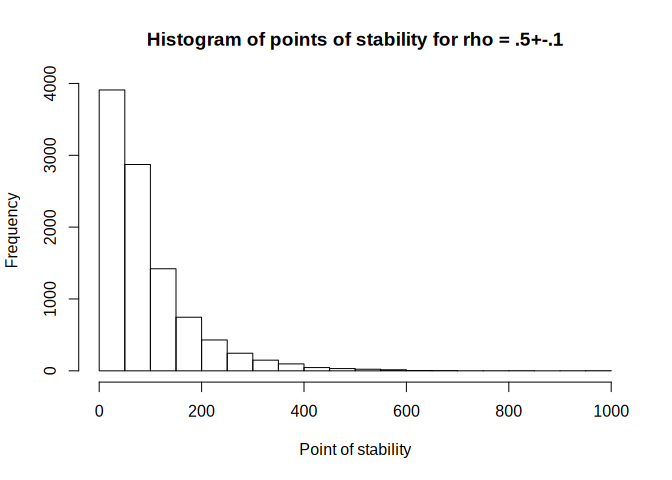
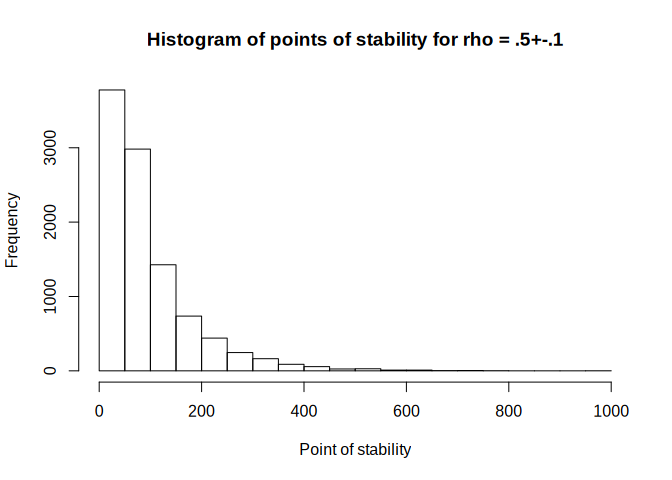
version 0.3.0

diff --git a/inst/doc/fastpos.html b/inst/doc/fastpos.html
@@ -8,7 +8,7 @@
 <meta name="generator" content="pandoc" />
 <meta http-equiv="X-UA-Compatible" content="IE=EDGE" />
 
-<meta name="viewport" content="width=device-width, initial-scale=1">
+<meta name="viewport" content="width=device-width, initial-scale=1" />
 
 <meta name="author" content="Johannes Titz" />
 
@@ -118,9 +118,6 @@ padding-right: 2em;
 font-family: "Open Sans", "Helvetica Neue", Helvetica, Arial, sans-serif;
 font-size: 14px;
 line-height: 1.35;
-}
-#header {
-text-align: center;
 }
 #TOC {
 clear: both;
@@ -289,7 +286,8 @@ code > span.st { color: #d14; }
 code > span.co { color: #888888; font-style: italic; } 
 code > span.ot { color: #007020; } 
 code > span.al { color: #ff0000; font-weight: bold; } 
-code > span.fu { color: #900; font-weight: bold; }  code > span.er { color: #a61717; background-color: #e3d2d2; } 
+code > span.fu { color: #900; font-weight: bold; } 
+code > span.er { color: #a61717; background-color: #e3d2d2; } 
 </style>
 
 
@@ -317,8 +315,8 @@ code > span.fu { color: #900; font-weight: bold; }  code > span.er { color: #a61
 <p>Let us reproduce one example from Schönbrodt and Perugini’s work (this should take only a couple of seconds on a modern CPU):</p>
 <div class="sourceCode" id="cb2"><pre class="sourceCode r"><code class="sourceCode r"><span id="cb2-1"><a href="#cb2-1"></a><span class="kw">find_critical_pos</span>(<span class="dt">rho =</span> <span class="fl">.7</span>, <span class="dt">sample_size_min =</span> <span class="dv">20</span>, <span class="dt">sample_size_max =</span> <span class="dv">1000</span>,</span>
 <span id="cb2-2"><a href="#cb2-2"></a>                  <span class="dt">n_studies =</span> <span class="dv">10000</span>)</span>
-<span id="cb2-3"><a href="#cb2-3"></a><span class="co">#&gt;     rho_pop 80% 90% 95% sample_size_min sample_size_max lower_limit upper_limit</span></span>
-<span id="cb2-4"><a href="#cb2-4"></a><span class="co">#&gt; 1 0.6997798  63  95 130              20            1000         0.6         0.8</span></span>
+<span id="cb2-3"><a href="#cb2-3"></a><span class="co">#&gt;   rho_pop 80% 90% 95% sample_size_min sample_size_max lower_limit upper_limit</span></span>
+<span id="cb2-4"><a href="#cb2-4"></a><span class="co">#&gt; 1     0.7  65  96 127              20            1000         0.6         0.8</span></span>
 <span id="cb2-5"><a href="#cb2-5"></a><span class="co">#&gt;   n_studies n_not_breached precision precision_rel</span></span>
 <span id="cb2-6"><a href="#cb2-6"></a><span class="co">#&gt; 1     10000              0       0.1         FALSE</span></span></code></pre></div>
 <p>The result is very close to Schönbrodt and Perugini’s table (see <a href="https://github.com/nicebread/corEvol" class="uri">https://github.com/nicebread/corEvol</a>).</p>
@@ -328,37 +326,37 @@ code > span.fu { color: #900; font-weight: bold; }  code > span.er { color: #a61
 <span id="cb3-3"><a href="#cb3-3"></a><span class="co">#&gt; Warning in find_critical_pos(rho = 0.7, sample_size_min = 20, sample_size_max = 400, : 3 simulation[s] did not reach the corridor of</span></span>
 <span id="cb3-4"><a href="#cb3-4"></a><span class="co">#&gt;             stability.</span></span>
 <span id="cb3-5"><a href="#cb3-5"></a><span class="co">#&gt; Increase sample_size_max and rerun the simulation.</span></span>
-<span id="cb3-6"><a href="#cb3-6"></a><span class="co">#&gt;     rho_pop 80% 90% 95% sample_size_min sample_size_max lower_limit upper_limit</span></span>
-<span id="cb3-7"><a href="#cb3-7"></a><span class="co">#&gt; 1 0.6998704  65  97 131              20             400         0.6         0.8</span></span>
+<span id="cb3-6"><a href="#cb3-6"></a><span class="co">#&gt;   rho_pop 80% 90% 95% sample_size_min sample_size_max lower_limit upper_limit</span></span>
+<span id="cb3-7"><a href="#cb3-7"></a><span class="co">#&gt; 1     0.7  65  97 133              20             400         0.6         0.8</span></span>
 <span id="cb3-8"><a href="#cb3-8"></a><span class="co">#&gt;   n_studies n_not_breached precision precision_rel</span></span>
 <span id="cb3-9"><a href="#cb3-9"></a><span class="co">#&gt; 1     10000              3       0.1         FALSE</span></span></code></pre></div>
 <p>In this case, do what the message suggests and increase the maximum sample size. Note that larger sample sizes are more resource intensive because the correlations are calculated in the reverse way (from the maximum sample size downwards). Thus, you usually would not like to increase the maximum sample size, unless there are studies that did not reach the corridor of stability.</p>
 <p>If you need different confidence levels, just state it:</p>
 <div class="sourceCode" id="cb4"><pre class="sourceCode r"><code class="sourceCode r"><span id="cb4-1"><a href="#cb4-1"></a><span class="kw">find_critical_pos</span>(<span class="dt">rho =</span> <span class="fl">.7</span>, <span class="dt">sample_size_min =</span> <span class="dv">20</span>, <span class="dt">sample_size_max =</span> <span class="dv">1000</span>,</span>
 <span id="cb4-2"><a href="#cb4-2"></a>                  <span class="dt">n_studies =</span> <span class="dv">10000</span>, <span class="dt">confidence_levels =</span> <span class="kw">c</span>(.<span class="dv">6</span>, <span class="fl">.85</span>))</span>
-<span id="cb4-3"><a href="#cb4-3"></a><span class="co">#&gt;     rho_pop 60% 85% sample_size_min sample_size_max lower_limit upper_limit</span></span>
-<span id="cb4-4"><a href="#cb4-4"></a><span class="co">#&gt; 1 0.7006911  38  78              20            1000         0.6         0.8</span></span>
+<span id="cb4-3"><a href="#cb4-3"></a><span class="co">#&gt;   rho_pop 60% 85% sample_size_min sample_size_max lower_limit upper_limit</span></span>
+<span id="cb4-4"><a href="#cb4-4"></a><span class="co">#&gt; 1     0.7  38  78              20            1000         0.6         0.8</span></span>
 <span id="cb4-5"><a href="#cb4-5"></a><span class="co">#&gt;   n_studies n_not_breached precision precision_rel</span></span>
 <span id="cb4-6"><a href="#cb4-6"></a><span class="co">#&gt; 1     10000              0       0.1         FALSE</span></span></code></pre></div>
 <p>This has no effect on resource consumption because the time consuming part is to simulate the distribution, not calculating quantiles of the distribution.</p>
 <p>If you need a different precision level or even relative precision, specify it:</p>
 <div class="sourceCode" id="cb5"><pre class="sourceCode r"><code class="sourceCode r"><span id="cb5-1"><a href="#cb5-1"></a><span class="kw">find_critical_pos</span>(<span class="dt">rho =</span> <span class="kw">c</span>(.<span class="dv">5</span>, <span class="fl">.7</span>), <span class="dt">sample_size_min =</span> <span class="dv">20</span>, <span class="dt">sample_size_max =</span> <span class="dv">2500</span>,</span>
 <span id="cb5-2"><a href="#cb5-2"></a>                  <span class="dt">n_studies =</span> <span class="dv">10000</span>, <span class="dt">precision =</span> <span class="fl">.10</span>, <span class="dt">precision_rel =</span> T)</span>
-<span id="cb5-3"><a href="#cb5-3"></a><span class="co">#&gt; Warning in find_critical_pos(rho = c(0.5, 0.7), sample_size_min = 20, sample_size_max = 2500, : 9 simulation[s] did not reach the corridor of</span></span>
+<span id="cb5-3"><a href="#cb5-3"></a><span class="co">#&gt; Warning in find_critical_pos(rho = c(0.5, 0.7), sample_size_min = 20, sample_size_max = 2500, : 10 simulation[s] did not reach the corridor of</span></span>
 <span id="cb5-4"><a href="#cb5-4"></a><span class="co">#&gt;             stability.</span></span>
 <span id="cb5-5"><a href="#cb5-5"></a><span class="co">#&gt; Increase sample_size_max and rerun the simulation.</span></span>
-<span id="cb5-6"><a href="#cb5-6"></a><span class="co">#&gt;     rho_pop 80% 90%     95% sample_size_min sample_size_max lower_limit</span></span>
-<span id="cb5-7"><a href="#cb5-7"></a><span class="co">#&gt; 1 0.4990567 596 856 1119.05              20            2500        0.45</span></span>
-<span id="cb5-8"><a href="#cb5-8"></a><span class="co">#&gt; 2 0.6997279 137 199  261.00              20            2500        0.63</span></span>
+<span id="cb5-6"><a href="#cb5-6"></a><span class="co">#&gt;   rho_pop   80%   90%  95% sample_size_min sample_size_max lower_limit</span></span>
+<span id="cb5-7"><a href="#cb5-7"></a><span class="co">#&gt; 1     0.5 590.0 845.2 1122              20            2500        0.45</span></span>
+<span id="cb5-8"><a href="#cb5-8"></a><span class="co">#&gt; 2     0.7 135.2 199.0  264              20            2500        0.63</span></span>
 <span id="cb5-9"><a href="#cb5-9"></a><span class="co">#&gt;   upper_limit n_studies n_not_breached precision precision_rel</span></span>
-<span id="cb5-10"><a href="#cb5-10"></a><span class="co">#&gt; 1        0.55     10000              9       0.1          TRUE</span></span>
+<span id="cb5-10"><a href="#cb5-10"></a><span class="co">#&gt; 1        0.55     10000             10       0.1          TRUE</span></span>
 <span id="cb5-11"><a href="#cb5-11"></a><span class="co">#&gt; 2        0.77     10000              0       0.1          TRUE</span></span></code></pre></div>
 <p>As you can see in the output, the limits were set relatively to the population correlation (+-25% of the population correlation).</p>
 <p>If you want to dig deeper, you can have a look at the functions that <em>find_critical_pos</em> builds upon. <strong>simulate_pos</strong> is the workhorse of the package. It calls a C++ function to calculate correlations sequentially and it does this pretty quickly (but you know that already, right?). A rawish approach would be to create a population with <strong>create_pop</strong> and pass it to <strong>simulate_pos</strong>:</p>
 <div class="sourceCode" id="cb6"><pre class="sourceCode r"><code class="sourceCode r"><span id="cb6-1"><a href="#cb6-1"></a>pop &lt;-<span class="st"> </span><span class="kw">create_pop</span>(<span class="fl">0.5</span>, <span class="dv">1000000</span>)</span>
 <span id="cb6-2"><a href="#cb6-2"></a>pos &lt;-<span class="st"> </span><span class="kw">simulate_pos</span>(<span class="dt">x_pop =</span> pop[,<span class="dv">1</span>],</span>
 <span id="cb6-3"><a href="#cb6-3"></a>                    <span class="dt">y_pop =</span> pop[,<span class="dv">2</span>],</span>
-<span id="cb6-4"><a href="#cb6-4"></a>                    <span class="dt">number_of_studies =</span> <span class="dv">1000</span>,</span>
+<span id="cb6-4"><a href="#cb6-4"></a>                    <span class="dt">n_studies =</span> <span class="dv">1000</span>,</span>
 <span id="cb6-5"><a href="#cb6-5"></a>                    <span class="dt">sample_size_min =</span> <span class="dv">20</span>,</span>
 <span id="cb6-6"><a href="#cb6-6"></a>                    <span class="dt">sample_size_max =</span> <span class="dv">1000</span>,</span>
 <span id="cb6-7"><a href="#cb6-7"></a>                    <span class="dt">replace =</span> T,</span>
@@ -366,33 +364,33 @@ code > span.fu { color: #900; font-weight: bold; }  code > span.er { color: #a61
 <span id="cb6-9"><a href="#cb6-9"></a>                    <span class="dt">upper_limit =</span> <span class="fl">0.6</span>)</span>
 <span id="cb6-10"><a href="#cb6-10"></a><span class="kw">hist</span>(pos, <span class="dt">xlim =</span> <span class="kw">c</span>(<span class="dv">0</span>, <span class="dv">1000</span>), <span class="dt">xlab =</span> <span class="kw">c</span>(<span class="st">&quot;Point of stability&quot;</span>),</span>
 <span id="cb6-11"><a href="#cb6-11"></a>     <span class="dt">main =</span> <span class="st">&quot;Histogram of points of stability for rho = .5+-.1&quot;</span>)</span></code></pre></div>
[2 lines of base64/hex data omitted]
 <div class="sourceCode" id="cb7"><pre class="sourceCode r"><code class="sourceCode r"><span id="cb7-1"><a href="#cb7-1"></a><span class="kw">quantile</span>(pos, <span class="kw">c</span>(.<span class="dv">8</span>, <span class="fl">.9</span>, <span class="fl">.95</span>), <span class="dt">na.rm =</span> T)</span>
-<span id="cb7-2"><a href="#cb7-2"></a><span class="co">#&gt;   80%   90%   95% </span></span>
-<span id="cb7-3"><a href="#cb7-3"></a><span class="co">#&gt; 141.0 214.1 270.0</span></span></code></pre></div>
+<span id="cb7-2"><a href="#cb7-2"></a><span class="co">#&gt;    80%    90%    95% </span></span>
+<span id="cb7-3"><a href="#cb7-3"></a><span class="co">#&gt; 142.20 199.10 290.05</span></span></code></pre></div>
 <p>Note that no warning message appears if the corridor is not reached, but instead an NA value is returned. Pay careful attention if you work with this function, and adjust the maximum sample size as needed.</p>
 <p><strong>create_pop</strong> creates the population matrix by using <strong>mvrnorm</strong>. This is a much simpler way than Schönbrodt and Perugini’s approach, but the results do not seem to differ. If you are interested in how population parameters (e.g. skewness) affect the point of stability, you should instead refer to the population generating functions in Schönbrodt and Perugini’s work.</p>
 <p>As you can see, there is not really much to the sequential definition of stability, except for calculating billions of correlations. This is done quite fast with the help of <strong>Rcpp</strong>.</p>
 <p>Let us reproduce Schönbrodt and Perugini’s quite famous and oft-cited table of the critical points of stability for a precision of 0.1. We set the maximum sample size a bit higher, so we avoid studies where the corridor is never reached. We reduce the number of studies to 10k so that it runs fairly quickly.</p>
 <div class="sourceCode" id="cb8"><pre class="sourceCode r"><code class="sourceCode r"><span id="cb8-1"><a href="#cb8-1"></a><span class="kw">find_critical_pos</span>(<span class="dt">rho =</span> <span class="kw">seq</span>(.<span class="dv">1</span>, <span class="fl">.7</span>, <span class="fl">.1</span>), <span class="dt">sample_size_max =</span> <span class="dv">1000</span>,</span>
 <span id="cb8-2"><a href="#cb8-2"></a>                  <span class="dt">n_studies =</span> <span class="dv">10000</span>)</span>
-<span id="cb8-3"><a href="#cb8-3"></a><span class="co">#&gt; Warning in find_critical_pos(rho = seq(0.1, 0.7, 0.1), sample_size_max = 1000, : 30 simulation[s] did not reach the corridor of</span></span>
+<span id="cb8-3"><a href="#cb8-3"></a><span class="co">#&gt; Warning in find_critical_pos(rho = seq(0.1, 0.7, 0.1), sample_size_max = 1000, : 22 simulation[s] did not reach the corridor of</span></span>
 <span id="cb8-4"><a href="#cb8-4"></a><span class="co">#&gt;             stability.</span></span>
 <span id="cb8-5"><a href="#cb8-5"></a><span class="co">#&gt; Increase sample_size_max and rerun the simulation.</span></span>
-<span id="cb8-6"><a href="#cb8-6"></a><span class="co">#&gt;     rho_pop   80% 90%    95% sample_size_min sample_size_max lower_limit</span></span>
-<span id="cb8-7"><a href="#cb8-7"></a><span class="co">#&gt; 1 0.1005987 253.0 365 479.00              20            1000         0.0</span></span>
-<span id="cb8-8"><a href="#cb8-8"></a><span class="co">#&gt; 2 0.1998043 234.0 335 433.00              20            1000         0.1</span></span>
-<span id="cb8-9"><a href="#cb8-9"></a><span class="co">#&gt; 3 0.3004318 214.2 304 393.00              20            1000         0.2</span></span>
-<span id="cb8-10"><a href="#cb8-10"></a><span class="co">#&gt; 4 0.4004198 184.0 267 354.05              20            1000         0.3</span></span>
-<span id="cb8-11"><a href="#cb8-11"></a><span class="co">#&gt; 5 0.4986327 145.0 208 276.00              20            1000         0.4</span></span>
-<span id="cb8-12"><a href="#cb8-12"></a><span class="co">#&gt; 6 0.5991916 104.0 150 200.00              20            1000         0.5</span></span>
-<span id="cb8-13"><a href="#cb8-13"></a><span class="co">#&gt; 7 0.6999457  65.0  96 128.05              20            1000         0.6</span></span>
+<span id="cb8-6"><a href="#cb8-6"></a><span class="co">#&gt;   rho_pop   80%   90%    95% sample_size_min sample_size_max lower_limit</span></span>
+<span id="cb8-7"><a href="#cb8-7"></a><span class="co">#&gt; 1     0.1 254.0 366.1 489.00              20            1000         0.0</span></span>
+<span id="cb8-8"><a href="#cb8-8"></a><span class="co">#&gt; 2     0.2 235.2 340.0 443.05              20            1000         0.1</span></span>
+<span id="cb8-9"><a href="#cb8-9"></a><span class="co">#&gt; 3     0.3 211.0 303.1 396.00              20            1000         0.2</span></span>
+<span id="cb8-10"><a href="#cb8-10"></a><span class="co">#&gt; 4     0.4 179.0 260.0 350.00              20            1000         0.3</span></span>
+<span id="cb8-11"><a href="#cb8-11"></a><span class="co">#&gt; 5     0.5 144.2 211.0 276.05              20            1000         0.4</span></span>
+<span id="cb8-12"><a href="#cb8-12"></a><span class="co">#&gt; 6     0.6 102.0 149.0 198.05              20            1000         0.5</span></span>
+<span id="cb8-13"><a href="#cb8-13"></a><span class="co">#&gt; 7     0.7  66.0  97.0 128.05              20            1000         0.6</span></span>
 <span id="cb8-14"><a href="#cb8-14"></a><span class="co">#&gt;   upper_limit n_studies n_not_breached precision precision_rel</span></span>
-<span id="cb8-15"><a href="#cb8-15"></a><span class="co">#&gt; 1         0.2     10000             11       0.1         FALSE</span></span>
-<span id="cb8-16"><a href="#cb8-16"></a><span class="co">#&gt; 2         0.3     10000             10       0.1         FALSE</span></span>
-<span id="cb8-17"><a href="#cb8-17"></a><span class="co">#&gt; 3         0.4     10000              6       0.1         FALSE</span></span>
-<span id="cb8-18"><a href="#cb8-18"></a><span class="co">#&gt; 4         0.5     10000              2       0.1         FALSE</span></span>
-<span id="cb8-19"><a href="#cb8-19"></a><span class="co">#&gt; 5         0.6     10000              1       0.1         FALSE</span></span>
+<span id="cb8-15"><a href="#cb8-15"></a><span class="co">#&gt; 1         0.2     10000              9       0.1         FALSE</span></span>
+<span id="cb8-16"><a href="#cb8-16"></a><span class="co">#&gt; 2         0.3     10000              7       0.1         FALSE</span></span>
+<span id="cb8-17"><a href="#cb8-17"></a><span class="co">#&gt; 3         0.4     10000              1       0.1         FALSE</span></span>
+<span id="cb8-18"><a href="#cb8-18"></a><span class="co">#&gt; 4         0.5     10000              5       0.1         FALSE</span></span>
+<span id="cb8-19"><a href="#cb8-19"></a><span class="co">#&gt; 5         0.6     10000              0       0.1         FALSE</span></span>
 <span id="cb8-20"><a href="#cb8-20"></a><span class="co">#&gt; 6         0.7     10000              0       0.1         FALSE</span></span>
 <span id="cb8-21"><a href="#cb8-21"></a><span class="co">#&gt; 7         0.8     10000              0       0.1         FALSE</span></span></code></pre></div>
 <p>You can obviously parallelize the process, which will be especially useful if you want to run many simulations. For instance, if you increase the number of studies to 100k (as in the original article), it will take less than a minute on a modern CPU with several cores. On my i7-2640 with 4 cores, it takes about 30 s. Overall, this speedup is substantial compared to the original implementation. A rough benchmark can be found here: <a href="https://github.com/johannes-titz/fastpos" class="uri">https://github.com/johannes-titz/fastpos</a> which results in a speedup of about 500 for a typical scenario.</p>

diff --git a/src/RcppExports.cpp b/src/RcppExports.cpp
@@ -25,20 +25,20 @@ BEGIN_RCPP
 END_RCPP
 }
 // simulate_pos
-IntegerVector simulate_pos(NumericVector x_pop, NumericVector y_pop, int number_of_studies, int sample_size_min, int sample_size_max, bool replace, float lower_limit, float upper_limit);
-RcppExport SEXP _fastpos_simulate_pos(SEXP x_popSEXP, SEXP y_popSEXP, SEXP number_of_studiesSEXP, SEXP sample_size_minSEXP, SEXP sample_size_maxSEXP, SEXP replaceSEXP, SEXP lower_limitSEXP, SEXP upper_limitSEXP) {
+IntegerVector simulate_pos(NumericVector x_pop, NumericVector y_pop, int n_studies, int sample_size_min, int sample_size_max, bool replace, float lower_limit, float upper_limit);
+RcppExport SEXP _fastpos_simulate_pos(SEXP x_popSEXP, SEXP y_popSEXP, SEXP n_studiesSEXP, SEXP sample_size_minSEXP, SEXP sample_size_maxSEXP, SEXP replaceSEXP, SEXP lower_limitSEXP, SEXP upper_limitSEXP) {
 BEGIN_RCPP
     Rcpp::RObject rcpp_result_gen;
     Rcpp::RNGScope rcpp_rngScope_gen;
     Rcpp::traits::input_parameter< NumericVector >::type x_pop(x_popSEXP);
     Rcpp::traits::input_parameter< NumericVector >::type y_pop(y_popSEXP);
-    Rcpp::traits::input_parameter< int >::type number_of_studies(number_of_studiesSEXP);
+    Rcpp::traits::input_parameter< int >::type n_studies(n_studiesSEXP);
     Rcpp::traits::input_parameter< int >::type sample_size_min(sample_size_minSEXP);
     Rcpp::traits::input_parameter< int >::type sample_size_max(sample_size_maxSEXP);
     Rcpp::traits::input_parameter< bool >::type replace(replaceSEXP);
     Rcpp::traits::input_parameter< float >::type lower_limit(lower_limitSEXP);
     Rcpp::traits::input_parameter< float >::type upper_limit(upper_limitSEXP);
-    rcpp_result_gen = Rcpp::wrap(simulate_pos(x_pop, y_pop, number_of_studies, sample_size_min, sample_size_max, replace, lower_limit, upper_limit));
+    rcpp_result_gen = Rcpp::wrap(simulate_pos(x_pop, y_pop, n_studies, sample_size_min, sample_size_max, replace, lower_limit, upper_limit));
     return rcpp_result_gen;
 END_RCPP
 }

diff --git a/src/rcpparma.cpp b/src/rcpparma.cpp
@@ -108,8 +108,9 @@ int simulate_one_pos(NumericVector x_pop,
 //' @param upper_limit Upper limit of corridor of stability.
 //' @param replace Whether drawing samples is with replacement or not.
 //' @param sample_size_max How many participants to draw at maximum.
-//' @param number_of_studies How many studies to conduct.
-//' @param sample_size_min Minimum sample size to start in corridor of stability.
+//' @param n_studies How many studies to conduct.
+//' @param sample_size_min Minimum sample size to start in corridor of
+//'   stability.
 //' @return Vector of sample sizes at which corridor of stability was reached.
 //' @examples
 //' pop <- fastpos::create_pop(0.5, 1000000)
@@ -118,22 +119,24 @@ int simulate_one_pos(NumericVector x_pop,
 // [[Rcpp::export]]
 IntegerVector simulate_pos(NumericVector x_pop,
                            NumericVector y_pop,
-                           int number_of_studies,
+                           int n_studies,
                            int sample_size_min,
                            int sample_size_max,
                            bool replace,
                            float lower_limit,
                            float upper_limit){
-  IntegerVector ret(number_of_studies);
+  IntegerVector ret(n_studies);
   int npop = x_pop.size();
   NumericVector index_pop(npop);
   for (int i = 0; i < npop; i++){
     index_pop[i] = i;
   }
-  Progress p(number_of_studies, true);
-  for (int k = 0; k < number_of_studies; k++) {
-    if (k % 10000 == 0) {
-      checkUserInterrupt();
+  Progress p(n_studies, true);
+  for (int k = 0; k < n_studies; k++){
+    if (k % 5000 == 0){
+      if (Progress::check_abort()){
+        return(IntegerVector::create(-1));
+      }
     }
     p.increment();
     ret[k] = simulate_one_pos(x_pop, y_pop, index_pop, sample_size_min,

diff --git a/README.md b/README.md
@@ -40,7 +40,7 @@ to the problem and a simulation approach is computationally expensive.
 The package *fastpos* overcomes this limitation by speeding up the
 calculation of correlations. For typical parameters, the theoretical
 speedup should be at least around 250. An empirical benchmark for a
-typical scenario even shows a speedup of about 500, paving the way for a
+typical scenario even shows a speedup of about 400, paving the way for a
 wider usage of the *stability* approach.
 
 ## Installation
@@ -84,17 +84,17 @@ reduce the number of studies to 10k so that it runs fairly quickly.
 ``` r
 find_critical_pos(rho = seq(.1, .7, .1), sample_size_max = 1000,
                   n_studies = 10000)
-#> Warning in find_critical_pos(rho = seq(0.1, 0.7, 0.1), sample_size_max = 1000, : 32 simulation[s] did not reach the corridor of
+#> Warning in find_critical_pos(rho = seq(0.1, 0.7, 0.1), sample_size_max = 1000, : 37 simulation[s] did not reach the corridor of
 #>             stability.
 #> Increase sample_size_max and rerun the simulation.
-#>      rho_pop 80% 90%    95% sample_size_min sample_size_max lower_limit upper_limit n_studies n_not_breached precision
-#> 1 0.09908227 253 359 476.00              20            1000         0.0         0.2     10000             11       0.1
-#> 2 0.19993267 234 338 457.00              20            1000         0.1         0.3     10000             14       0.1
-#> 3 0.29982634 212 300 396.05              20            1000         0.2         0.4     10000              5       0.1
-#> 4 0.39933030 182 262 342.00              20            1000         0.3         0.5     10000              2       0.1
-#> 5 0.50035764 139 204 270.00              20            1000         0.4         0.6     10000              0       0.1
-#> 6 0.59961802 104 151 201.00              20            1000         0.5         0.7     10000              0       0.1
-#> 7 0.69905041  65  96 128.05              20            1000         0.6         0.8     10000              0       0.1
+#>   rho_pop 80%   90%    95% sample_size_min sample_size_max lower_limit upper_limit n_studies n_not_breached precision
+#> 1     0.1 253 361.0 479.05              20            1000         0.0         0.2     10000             14       0.1
+#> 2     0.2 237 339.0 445.00              20            1000         0.1         0.3     10000             16       0.1
+#> 3     0.3 212 304.1 402.00              20            1000         0.2         0.4     10000              5       0.1
+#> 4     0.4 184 261.0 346.00              20            1000         0.3         0.5     10000              1       0.1
+#> 5     0.5 142 205.1 273.00              20            1000         0.4         0.6     10000              0       0.1
+#> 6     0.6 103 147.0 200.00              20            1000         0.5         0.7     10000              1       0.1
+#> 7     0.7  64  96.0 127.05              20            1000         0.6         0.8     10000              0       0.1
 #>   precision_rel
 #> 1         FALSE
 #> 2         FALSE
@@ -123,7 +123,7 @@ right?). A rawish approach would be to create a population with
 pop <- create_pop(0.5, 1000000)
 pos <- simulate_pos(x_pop = pop[,1],
                     y_pop = pop[,2],
-                    number_of_studies = 10000,
+                    n_studies = 10000,
                     sample_size_min = 20,
                     sample_size_max = 1000,
                     replace = T,
@@ -137,8 +137,8 @@ hist(pos, xlim = c(0, 1000), xlab = c("Point of stability"),
 
 ``` r
 quantile(pos, c(.8, .9, .95), na.rm = T)
-#>    80%    90%    95% 
-#> 142.00 205.00 274.05
+#> 80% 90% 95% 
+#> 141 208 276
 ```
 
 Note that no warning message appears if the corridor is not reached, but
@@ -179,7 +179,7 @@ maximum one. Thus, the total number of added terms for one sum is:
 ![\\sum \_{n\_{min}}^{n\_{max}}n = \\sum\_{n=1}^{n\_{max}}n -
 \\sum\_{n=1}^{n\_{min}-1}n = n\_{max}(n\_{max}+1)/2
 -(n\_{min}-1)(n\_{min}-1+1)/2](https://latex.codecogs.com/png.latex?%5Csum%20_%7Bn_%7Bmin%7D%7D%5E%7Bn_%7Bmax%7D%7Dn%20%3D%20%5Csum_%7Bn%3D1%7D%5E%7Bn_%7Bmax%7D%7Dn%20-%20%5Csum_%7Bn%3D1%7D%5E%7Bn_%7Bmin%7D-1%7Dn%20%3D%20n_%7Bmax%7D%28n_%7Bmax%7D%2B1%29%2F2%20-%28n_%7Bmin%7D-1%29%28n_%7Bmin%7D-1%2B1%29%2F2
-"\\sum _{n_{min}}^{n_{max}}n = \\sum_{n=1}^{n_{max}}n - \\sum_{n=1}^{n_{min}-1}n = n_{max}(n_{max}+1)/2 -(n_{min}-1)(n_{min}-1+1)/2")
+"\\sum _{n_{min}}^{n_{max}}n = \\sum_{n=1}^{n_{max}}n - \\sum_{n=1}^{n_{min}-1}n = n_{max}(n_{max}+1)/2 -(n_{min}-1)(n_{min}-1+1)/2")  
 
 On the other hand, *fastpos* calculates the correlation for the maximum
 sample size first. This requires to add
@@ -247,7 +247,7 @@ bm <- microbenchmark(corevol = corevol(),
                      fastpos = find_critical_pos(rho = .1,
                                                  sample_size_max = 1000,
                                                  n_studies = 10000),
-                     times = 10)
+                     times = 10, unit = "s")
 #> [1] "Analyzing rho = 0.1"
 #>   rho 0.8_0.1 0.9_0.1 0.95_0.1
 #> 1 0.1     249     355      471
@@ -280,12 +280,12 @@ bm <- microbenchmark(corevol = corevol(),
 #> 1 0.1     250     364      469
 bm
 #> Unit: seconds
-#>     expr        min         lq       mean     median         uq        max neval cld
-#>  corevol 518.397379 524.152544 549.926103 528.534388 544.880965 708.257171    10   b
-#>  fastpos   1.046439   1.056543   1.103868   1.078956   1.179585   1.201184    10  a
+#>     expr        min         lq      mean    median         uq        max neval
+#>  corevol 604.205445 609.666951 611.74153 611.75420 613.710455 616.786979    10
+#>  fastpos   1.388725   1.437223   1.53216   1.50323   1.599481   1.782225    10
 ```
 
-For the chosen parameters, *fastpos* is about 500 times faster than
+For the chosen parameters, *fastpos* is about 400 times faster than
 *corEvol*, for which there are two main reasons: (1) *fastpos* is built
 around a C++ function via *Rcpp* and (2) this function does not
 calculate every calculation from scratch, but only calculates the
@@ -297,7 +297,7 @@ factors that might play a role, but they cannot account for the large
 difference found. For instance, setting up a population takes quite long
 in *corEvol* (about 20s), but compared to the \~9min required overall,
 this is only a small fraction. There are other parts of the *corEvol*
-code that are fated to be slow, but again, a speedup by a factor of 500
+code that are fated to be slow, but again, a speedup by a factor of 400
 cannot be achieved by improving these parts. The presented benchmark is
 definitely not comprehensive, but only demonstrates that *fastpos* can
 be used with no significant waiting time for a typical scenario, while
@@ -307,7 +307,7 @@ by a factor of 250 was clearly exceeded.
 One might think that *corEvol* can work with more than one core out of
 the box. But it is quite easy to also parallelize *fastpos*, for
 instance with *mclapply* from the *parallel* package. Furthermore, even
-a parallelized version of *corEvol* would need more than 500 cores to
+a parallelized version of *corEvol* would need more than 400 cores to
 compete with *fastpos*. Overall, the speedup should be evident and will
 hopefully pave the way for a wider usage of the *stability* approach for
 sample size planning.
@@ -382,7 +382,7 @@ correlations stabilize? *Journal of Research in Personality*, *47*,
 <div id="ref-schonbrodt2018">
 
 Schönbrodt, F. D., & Perugini, M. (2018). Corrigendum to “At What Sample
-Size Do Correlations Stabilize?” [J. Res. Pers. 47 (2013) 609–612].
+Size Do Correlations Stabilize?” \[J. Res. Pers. 47 (2013) 609–612\].
 *Journal of Research in Personality*, *74*, 194.
 <https://doi.org/10.1016/j.jrp.2018.02.010>
 

diff --git a/NEWS.md b/NEWS.md
@@ -1,3 +1,16 @@
+# fastpos 0.3.0
+
+* Parameter for number of studies is now always n_studies. Some lower level
+functions used number_of_studies.
+* create_pop now creates a bivariate normal distribution with an exact rho, this
+is slower than previously, but it is probably worth it.
+* Problems with C++ progressbar (RcppProgress) were fixed. The code should also
+be cleaner now. 
+* Make C++ and Rstudio interruption similar: depending on the
+timing, either Rstudio interrupts by itself and stops everything or C++ returns
+a value. In the latter case, R now also stops quietly.
+* Since the interrupts cannot be properly tested, code coverage is only 90%.
+
 # fastpos 0.2.0
 
 * If the corridor of stability is not reached, NA is returned by an internal
